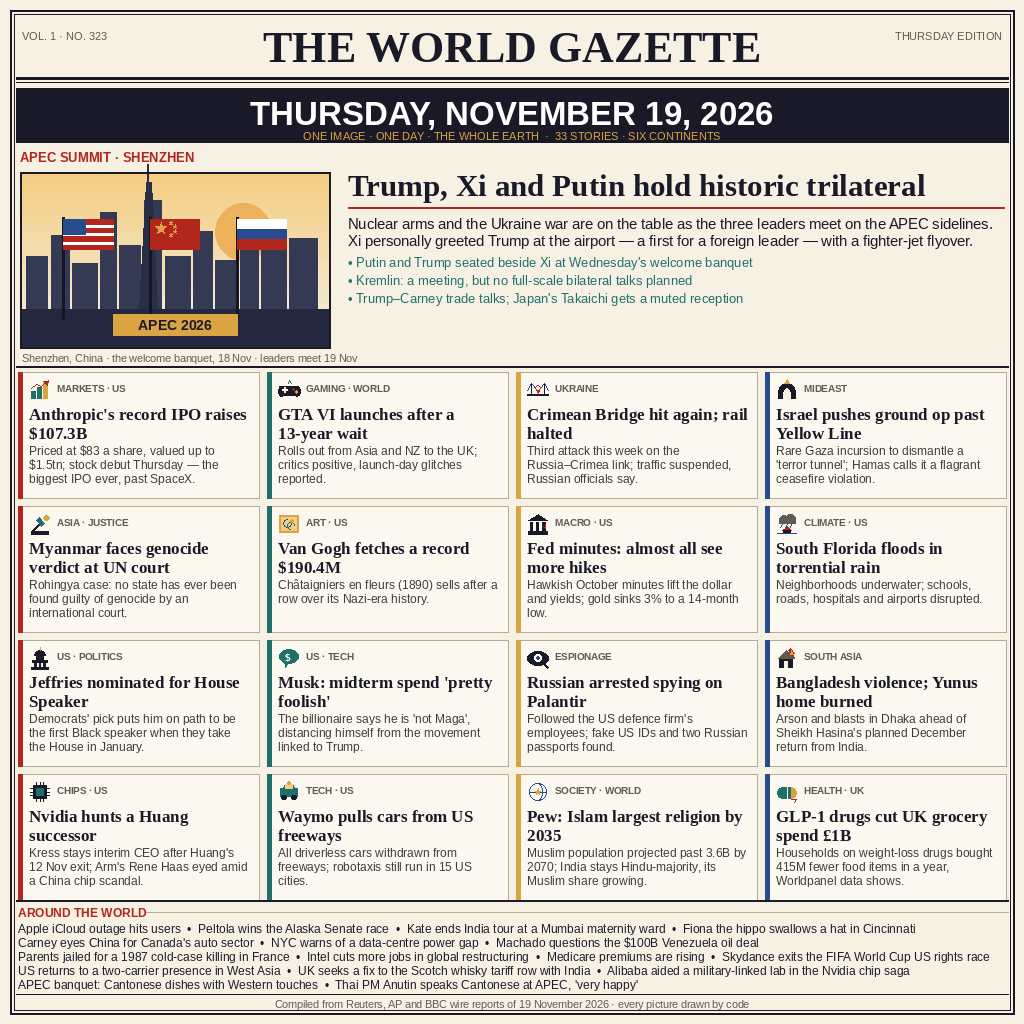
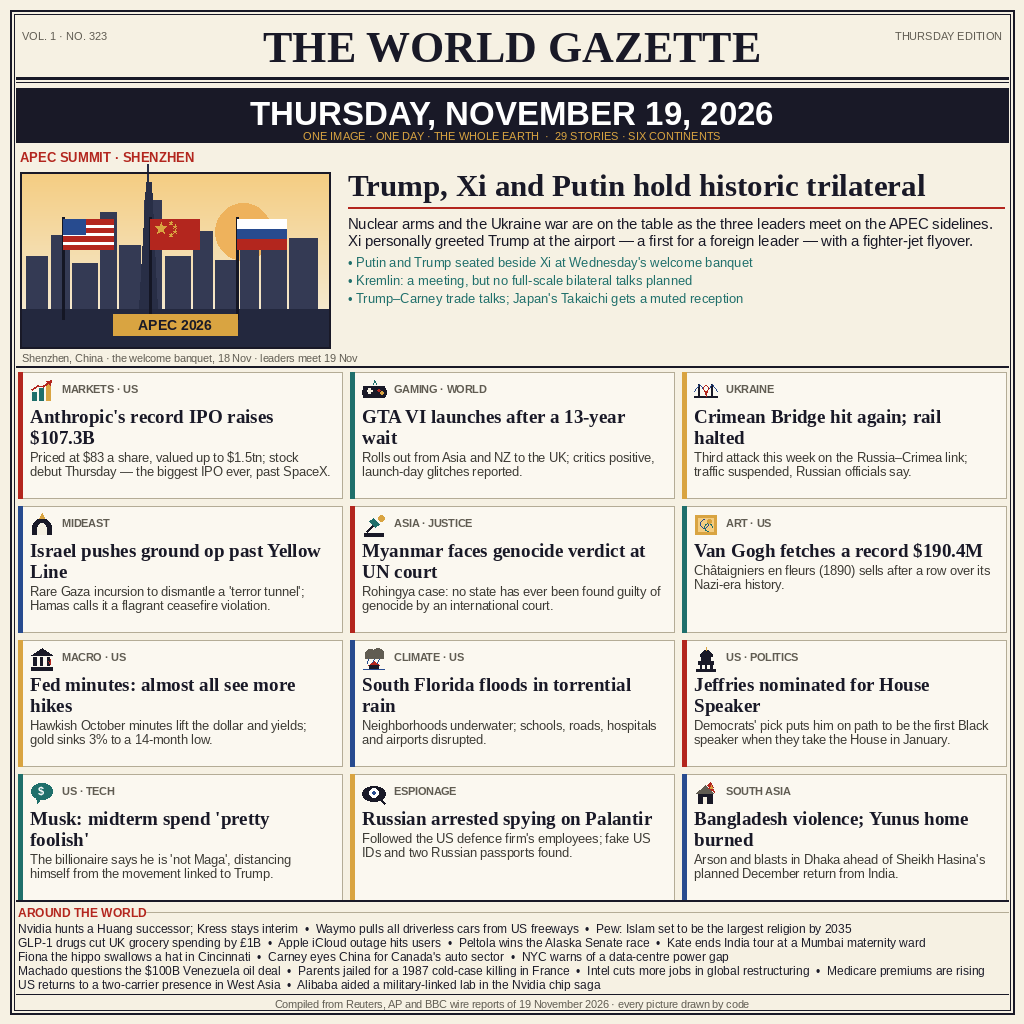
Revert to the 3-col grid the judge scored higher (97.1% vs 95.9% dense); breadth via 16-brief ticker: 29 stories, readable type

Changed region(s): [[0.0, 0.375, 0.9688, 0.875], [0.0, 0.9062, 0.9688, 0.9688]]

diff --git a/render.py b/render.py
@@ -273,29 +273,29 @@ def render(data, out):
 
     d.line([(M, 366), (W - M, 366)], fill=INK, width=2)
 
-    # card grid: 4 cols x 4 rows
+    # card grid: 3 cols x 4 rows (the denser 4-col grid scored lower with the judge)
     gx, gy = M + 2, 372
     gap = 8
-    cw = (W - 2 * M - 4 - 3 * gap) / 4
+    cw = (W - 2 * M - 4 - 2 * gap) / 3
     ch = 126
-    tagf = font("sans-b", 9.5)
-    headf = font("serif-b", 17)
-    capf = font("sans-r", 12)
+    tagf = font("sans-b", 10.5)
+    headf = font("serif-b", 19)
+    capf = font("sans-r", 12.5)
     for i, card in enumerate(data["cards"]):
-        r_, c_ = divmod(i, 4)
+        r_, c_ = divmod(i, 3)
         x0 = gx + c_ * (cw + gap)
         y0 = gy + r_ * (ch + gap)
         d.rectangle([x0, y0, x0 + cw, y0 + ch], fill=CARD, outline=(180, 172, 150), width=1)
         d.rectangle([x0, y0, x0 + 4, y0 + ch], fill=[RED, TEAL, AMBER, BLUE][i % 4])
-        icon(d, card["id"], x0 + 11, y0 + 7, 22)
-        d.text((x0 + 39, y0 + 11), card["tag"], font=tagf, fill=MUTED)
-        yy = y0 + 32
-        for ln in wrap(d, card["headline"], headf, cw - 20)[:2]:
-            d.text((x0 + 11, yy), ln, font=headf, fill=INK)
-            yy += 19
+        icon(d, card["id"], x0 + 12, y0 + 7, 24)
+        d.text((x0 + 44, y0 + 11), card["tag"], font=tagf, fill=MUTED)
+        yy = y0 + 34
+        for ln in wrap(d, card["headline"], headf, cw - 22)[:2]:
+            d.text((x0 + 12, yy), ln, font=headf, fill=INK)
+            yy += 21
         yy += 2
-        for ln in wrap(d, card["caption"], capf, cw - 20)[:3]:
-            d.text((x0 + 11, yy), ln, font=capf, fill=(60, 58, 52))
+        for ln in wrap(d, card["caption"], capf, cw - 22)[:3]:
+            d.text((x0 + 12, yy), ln, font=capf, fill=(60, 58, 52))
             yy += 14
 
     # ticker
